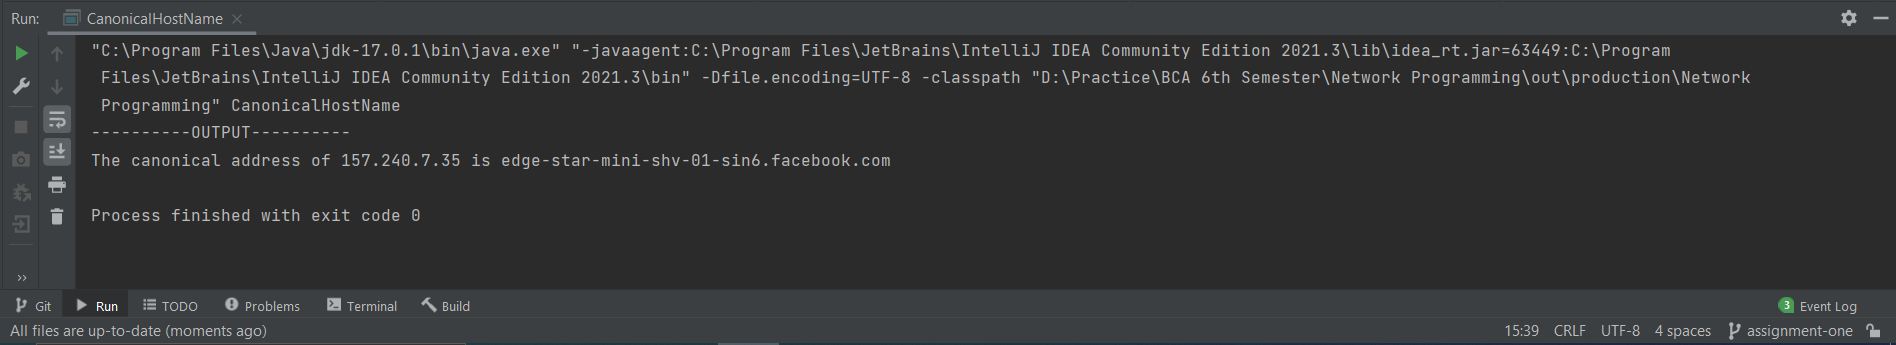
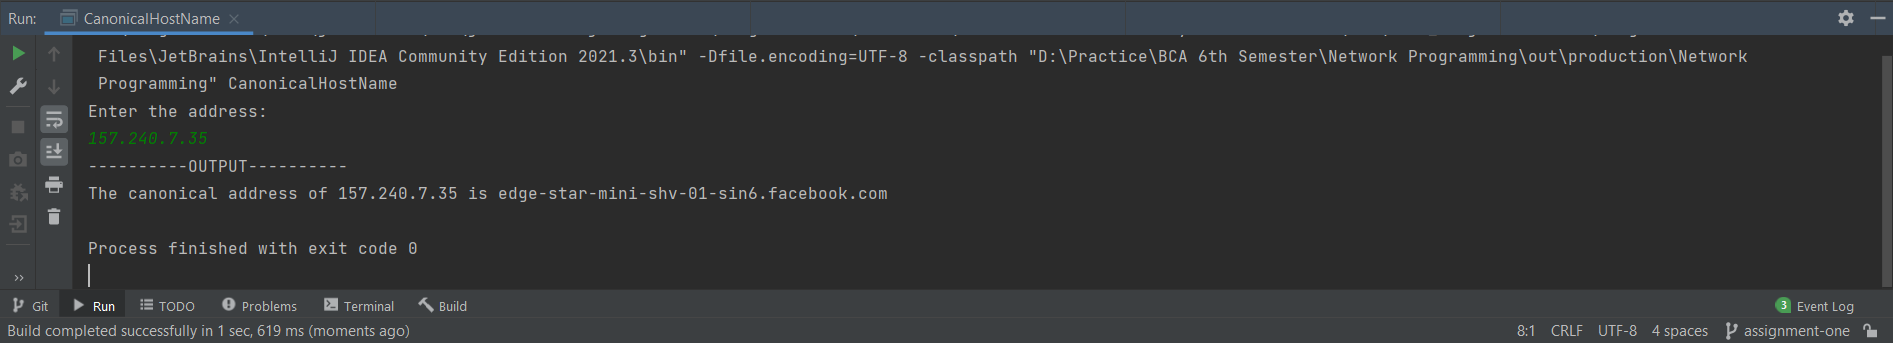
--amend

diff --git a/src/CanonicalHostName.java b/src/CanonicalHostName.java
@@ -1,9 +1,11 @@
 import java.net.InetAddress;
 import java.net.UnknownHostException;
+import java.util.Scanner;
 
 public class CanonicalHostName {
     static String get_canonical_host_name(String address){
         try {
+
             InetAddress net_obj = InetAddress.getByName(address);
             return net_obj.getCanonicalHostName();
         } catch (UnknownHostException e) {
@@ -12,7 +14,12 @@ public class CanonicalHostName {
         }
     }
     public static void main(String[] args) {
-        String address = "157.240.7.35";
+        Scanner scanner = new Scanner(System.in);
+        String address;
+
+        System.out.println("Enter the address: ");
+        address = scanner.next();
+
         System.out.println("----------OUTPUT----------");
         System.out.println("The canonical address of " + address +  " is " + get_canonical_host_name(address));
     }
